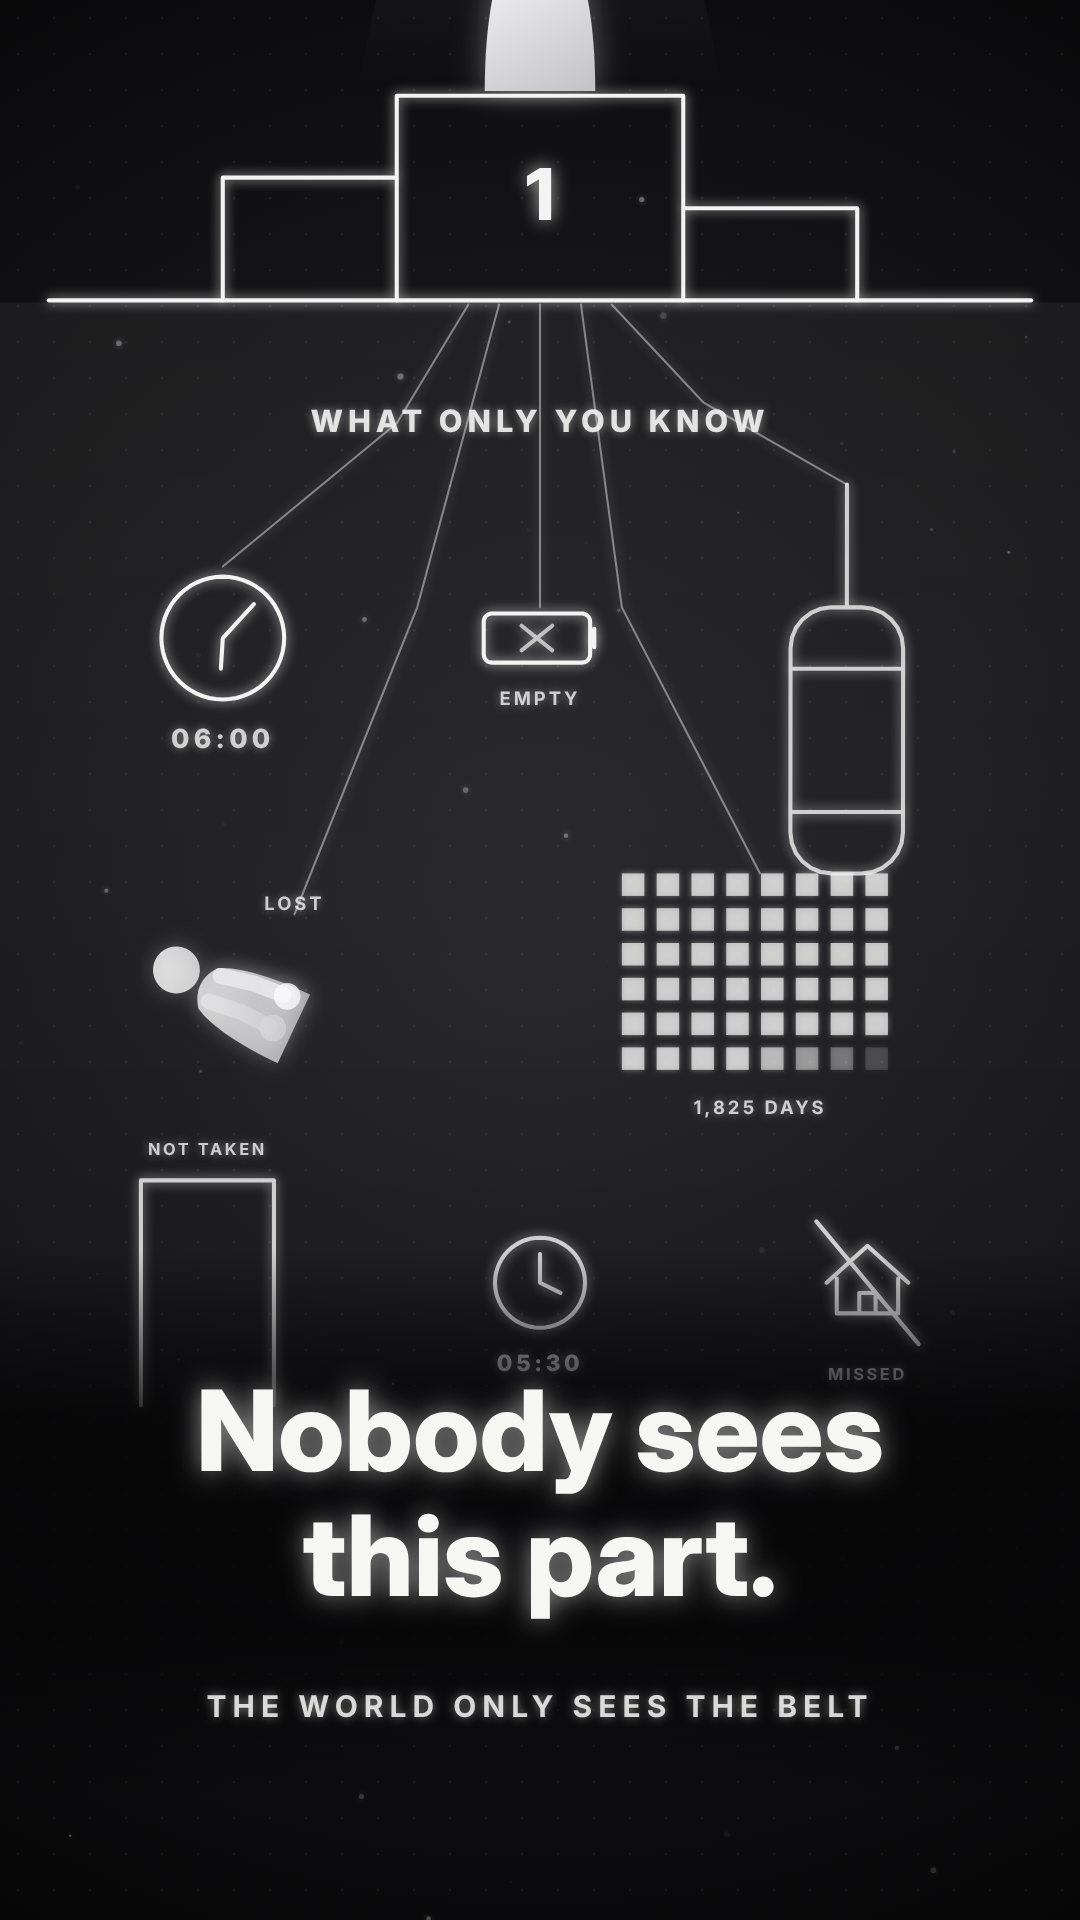
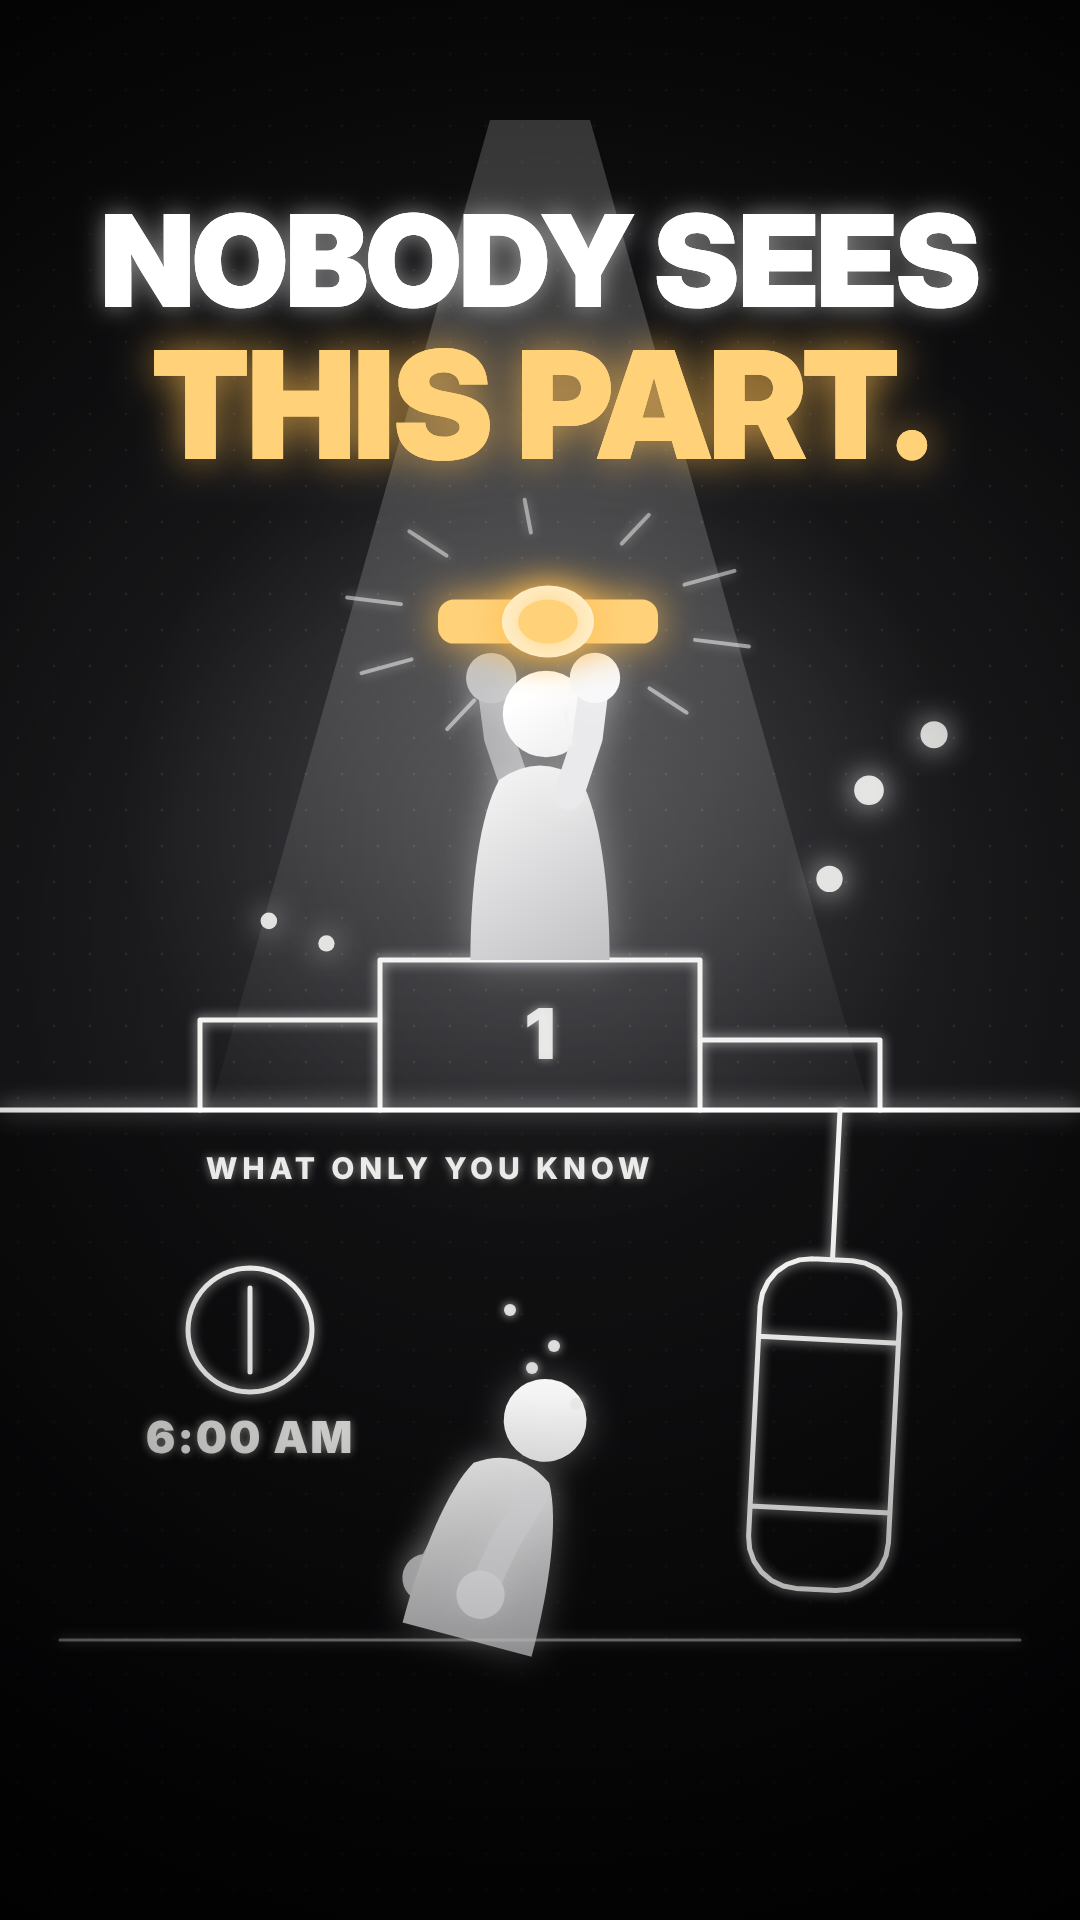
Redesign thumbnails: composed covers with a huge headline and one gold word
Claude-Session: https://claude.ai/code/session_01AqWQqkVNNyAXnpv5A5CmbR

diff --git a/boxer/src/canvas-core/thumbs.ts b/boxer/src/canvas-core/thumbs.ts
@@ -1,34 +1,93 @@
-// THUMBNAILS: one frame of each film (without captions), darkened where the title sits, with the title
-// drawn large in the films' own lettering. Frame numbers are picked from the films' strongest beats.
-import { Ctx, Env } from "./core";
+// THUMBNAILS, composed for the feed rather than lifted from the film: one contrast you read in a glance,
+// four or five huge words with one gold word, everything that matters inside the centre 3:4 (y 240-1680)
+// because the profile grid crops the top and bottom of a 9:16 cover.
+import { Ctx, Env, rng } from "./core";
 import { Film } from "./film";
-import { boxer, setBoxerCaptions } from "./boxer";
-import { dreamer } from "./dreamer";
-import { setCaptions, setScale, W, H } from "./glowKit";
+import { W, H, P, setScale, background, person, Pose, UP, SAD, CROSS, SHOUT, ink, rrect, seg, circ, dot, glow, noGlow, label, aura, mix } from "./glowKit";
 
-const title = (ctx: Ctx, env: Env, lines: string[], y: number, size: number, sub?: string, band: [number, number] = [y - 260, y + 260]) => {
-  ctx.save(); ctx.scale(env.scale, env.scale);
-  const g = ctx.createLinearGradient(0, band[0], 0, band[1]); g.addColorStop(0, "rgba(5,5,6,0)"); g.addColorStop(0.3, "rgba(5,5,6,0.82)"); g.addColorStop(0.7, "rgba(5,5,6,0.82)"); g.addColorStop(1, "rgba(5,5,6,0)");
-  ctx.fillStyle = g; ctx.fillRect(0, band[0], W, band[1] - band[0]);
-  ctx.font = `800 ${size}px "Inter Display", Inter, sans-serif`; ctx.textAlign = "center"; ctx.textBaseline = "middle";
-  const lh = size * 1.12, y0 = y - ((lines.length - 1) * lh) / 2;
-  lines.forEach((l, i) => { ctx.fillStyle = "#f6f6f3"; ctx.shadowColor = "rgba(255,255,255,0.55)"; ctx.shadowBlur = 26 * env.scale; ctx.fillText(l, 540, y0 + i * lh); });
-  if (sub) { ctx.shadowBlur = 10 * env.scale; ctx.font = `700 30px Inter, sans-serif`; (ctx as Ctx & { letterSpacing: string }).letterSpacing = "6px"; ctx.globalAlpha = 0.85; ctx.fillText(sub, 540, y0 + lines.length * lh + 20); }
+const GOLD = "#ffd27a";
+type Line = { text: string; size: number; color?: string };
+const headline = (ctx: Ctx, env: Env, lines: Line[], y: number) => {
+  ctx.save(); ctx.textAlign = "center"; ctx.textBaseline = "middle";
+  let yy = y;
+  for (const l of lines) {
+    ctx.font = `900 ${l.size}px "Inter Display", Inter, sans-serif`; (ctx as Ctx & { letterSpacing: string }).letterSpacing = `${-l.size * 0.02}px`;
+    const gold = l.color === GOLD;
+    ctx.shadowColor = gold ? "rgba(255,190,80,0.75)" : "rgba(255,255,255,0.5)"; ctx.shadowBlur = (gold ? 40 : 24) * env.scale;
+    ctx.fillStyle = l.color ?? "#ffffff"; ctx.fillText(l.text, 540, yy + l.size / 2);
+    ctx.shadowBlur = 0; ctx.fillText(l.text, 540, yy + l.size / 2); // a crisp pass over the glow
+    yy += l.size * 1.05;
+  }
   ctx.restore();
 };
+const goldLight = (ctx: Ctx, x: number, y: number, r: number, a: number) => {
+  ctx.save(); const g = ctx.createRadialGradient(x, y, 0, x, y, r); g.addColorStop(0, `rgba(255,205,120,${a})`); g.addColorStop(0.4, `rgba(255,190,100,${a * 0.4})`); g.addColorStop(1, "rgba(255,190,100,0)");
+  ctx.fillStyle = g; ctx.fillRect(x - r, y - r, r * 2, r * 2); ctx.restore();
+};
+const cone = (ctx: Ctx, x: number, top: number, bottom: number, w: number, a: number) => {
+  ctx.save(); const g = ctx.createLinearGradient(0, top, 0, bottom); g.addColorStop(0, `rgba(255,255,255,${a})`); g.addColorStop(1, "rgba(255,255,255,0.02)");
+  ctx.fillStyle = g; ctx.beginPath(); ctx.moveTo(x - 50, top); ctx.lineTo(x + 50, top); ctx.lineTo(x + w, bottom); ctx.lineTo(x - w, bottom); ctx.closePath(); ctx.fill(); ctx.restore();
+};
+const vignette = (ctx: Ctx, a: number) => { const g = ctx.createRadialGradient(540, 960, 380, 540, 960, 1250); g.addColorStop(0, "rgba(0,0,0,0)"); g.addColorStop(1, `rgba(0,0,0,${a})`); ctx.fillStyle = g; ctx.fillRect(0, 0, W, H); };
 
-const thumb = (name: string, src: Film, frame: number, paint: (ctx: Ctx, env: Env) => void): Film => ({
+const still = (name: string, paint: (ctx: Ctx, env: Env) => void): Film => ({
   meta: { title: name, W, H, fps: 30, bpm: 60, durationFrames: 1 },
   assets: { images: {} },
-  shots: [{ id: "thumb", start: 0, end: 1, draw: (ctx, _l, env) => {
-    setCaptions(false); setBoxerCaptions(false);
-    src.shots[0].draw(ctx, frame, env);
-    setCaptions(true); setBoxerCaptions(true); setScale(env.scale);
-    paint(ctx, env);
-  } }],
+  shots: [{ id: "thumb", start: 0, end: 1, draw: (ctx, _l, env) => { setScale(env.scale); ctx.drawImage(background(env).canvas, 0, 0); ctx.save(); ctx.scale(env.scale, env.scale); paint(ctx, env); ctx.restore(); } }],
 });
 
-// boxer: the reveal under the podium, "what only you know"
-export const boxerThumb = thumb("boxerThumb", boxer, 1590, (ctx, env) => title(ctx, env, ["Nobody sees", "this part."], 1500, 112, "THE WORLD ONLY SEES THE BELT", [1250, 1800]));
-// dreamer: the one smile
-export const dreamerThumb = thumb("dreamerThumb", dreamer, 1800, (ctx, env) => title(ctx, env, ["My parents didn't", "believe in me."], 1480, 96, "SO I STAYED SILENT", [1220, 1780]));
+// ------------------------------------------------------------------ BOXER: what the world sees / what only you know
+export const boxerThumb = still("boxerThumb", (ctx, env) => {
+  const SURF = 1110;
+  // above: the champion, lit, the belt in gold
+  cone(ctx, 540, 120, SURF, 330, 0.3);
+  aura(ctx, 540, 820, 420, 0.16);
+  const R = rng(9); for (let i = 0; i < 9; i++) { const x = 90 + R() * 900, y = 640 + R() * 330; if (Math.abs(x - 540) > 200) dot(ctx, x, y, 7 + R() * 9, 0.9, 30); }
+  ink(ctx, [[[380, SURF], [380, SURF - 150], [700, SURF - 150], [700, SURF]], [[200, SURF], [200, SURF - 90], [380, SURF - 90]], [[700, SURF - 70], [880, SURF - 70], [880, SURF]]], 1, 5);
+  label(ctx, "1", 540, SURF - 72, 1, { size: 70, weight: 900, sp: 0 });
+  const champ: Pose = { ...UP, gloves: true };
+  person(ctx, 540, SURF - 150, 1.2, champ);
+  // the belt, held high (hands sit ~245 px above the feet at this size)
+  ctx.save(); ctx.translate(548, SURF - 150 - 1.2 * 282); glow(ctx, 40, 1); ctx.shadowColor = "rgba(255,190,80,0.9)";
+  ctx.fillStyle = GOLD; ctx.beginPath(); ctx.roundRect(-110, -22, 220, 44, 16); ctx.fill();
+  ctx.fillStyle = "#fff4d6"; ctx.beginPath(); ctx.ellipse(0, 0, 46, 36, 0, 0, Math.PI * 2); ctx.fill();
+  ctx.fillStyle = GOLD; ctx.beginPath(); ctx.ellipse(0, 0, 30, 22, 0, 0, Math.PI * 2); ctx.fill(); ctx.restore();
+  for (let i = 0; i < 10; i++) { const a = (i / 10) * Math.PI * 2 + 0.2, r0 = 150, r1 = 205; ink(ctx, [seg(548 + Math.cos(a) * r0, 622 + Math.sin(a) * r0 * 0.6, 548 + Math.cos(a) * r1, 622 + Math.sin(a) * r1 * 0.6)], 1, 4, 0.55); }
+  // the surface
+  ctx.save(); ctx.strokeStyle = "#ffffff"; ctx.lineWidth = 5; glow(ctx, 22, 1); ctx.beginPath(); ctx.moveTo(0, SURF); ctx.lineTo(W, SURF); ctx.stroke(); ctx.restore();
+  // below: darker, colder, alone at 6 AM
+  ctx.save(); ctx.fillStyle = "rgba(0,0,0,0.42)"; ctx.fillRect(0, SURF + 3, W, H - SURF); ctx.restore();
+  label(ctx, "WHAT ONLY YOU KNOW", 430, SURF + 60, 1, { size: 30, weight: 800, a: 0.95 });
+  ctx.save(); ctx.translate(840, SURF); ctx.rotate(0.05);
+  ink(ctx, [seg(0, 0, 0, 150), rrect(-70, 150, 140, 330, 50), seg(-70, 230, 70, 230), seg(-70, 400, 70, 400)], 1, 5); ctx.restore();
+  ink(ctx, [circ(250, SURF + 220, 62), seg(250, SURF + 220, 250, SURF + 178), seg(250, SURF + 220, 250, SURF + 262)], 1, 5);
+  label(ctx, "6:00 AM", 250, SURF + 330, 1, { size: 44, weight: 900, sp: 2 });
+  const tired: Pose = { ...SAD, gloves: true, lean: 0.26, nod: 0.3 };
+  person(ctx, 470, 1640, 1.15, tired, 1);
+  ink(ctx, [seg(60, 1640, 1020, 1640)], 1, 3, 0.5);
+  for (let i = 0; i < 4; i++) dot(ctx, 510 + i * 22, 1310 + (i % 2) * 40 + i * 18, 6, 0.85, 10);
+  vignette(ctx, 0.75);
+  // the words
+  headline(ctx, env, [{ text: "NOBODY SEES", size: 128 }, { text: "THIS PART.", size: 150, color: GOLD }], 205);
+});
+
+// ------------------------------------------------------------------ DREAMER: dark giants, a small light
+export const dreamerThumb = still("dreamerThumb", (ctx, env) => {
+  const G = 1690;
+  // the parents: huge, dark, shouting down
+  const parent = (x: number, k: number, dir: number, tone: number, pose: Pose) => person(ctx, x, G + 40, k, { ...pose, dir, tone, lean: 0.14 });
+  parent(170, 2.75, 1, 0.34, SHOUT); parent(915, 2.6, -1, 0.3, CROSS);
+  // the shouting: spiky bubbles and sound waves aimed at the kid
+  const spiky = (cx: number, cy: number, w: number, h: number, seed: number): P[] => { const R = rng(seed), pts: P[] = []; for (let i = 0; i <= 26; i++) { const a = (i / 26) * Math.PI * 2, r = i % 2 ? 0.78 : 1.15 + R() * 0.12; pts.push([cx + Math.cos(a) * w * 0.5 * r, cy + Math.sin(a) * h * 0.5 * r]); } return pts; };
+  ink(ctx, [spiky(290, 800, 330, 190, 4)], 1, 6); label(ctx, "FOCUS ON", 290, 778, 1, { size: 30, weight: 900 }); label(ctx, "SCHOOL!", 290, 822, 1, { size: 42, weight: 900, sp: 2 });
+  ink(ctx, [spiky(830, 770, 330, 200, 8)], 1, 6); label(ctx, "STOP", 830, 748, 1, { size: 34, weight: 900 }); label(ctx, "DREAMING!", 830, 792, 1, { size: 32, weight: 900, sp: 2 });
+  for (let i = 0; i < 3; i++) { ink(ctx, [circ(330, 1220, 70 + i * 34, -0.55, 18, 1.1)], 1, 5, 0.8 - i * 0.2); ink(ctx, [circ(760, 1220, 70 + i * 34, Math.PI - 0.55, 18, 1.1)], 1, 5, 0.8 - i * 0.2); }
+  // the kid: small, bright, the warm spark kept alive
+  goldLight(ctx, 545, G - 120, 380, 0.42);
+  aura(ctx, 545, G - 140, 300, 0.16);
+  person(ctx, 545, G, 1.35, { ...SAD, lean: 0.12, nod: 0.25, spark: 1.6, pack: 1 });
+  ink(ctx, [seg(60, G, 1020, G)], 1, 3, 0.6);
+  vignette(ctx, 0.7);
+  headline(ctx, env, [{ text: "THEY SAID I WAS", size: 96 }, { text: "WASTING", size: 156, color: GOLD }, { text: "MY TIME.", size: 156, color: GOLD }], 230);
+  void mix; void noGlow;
+});
